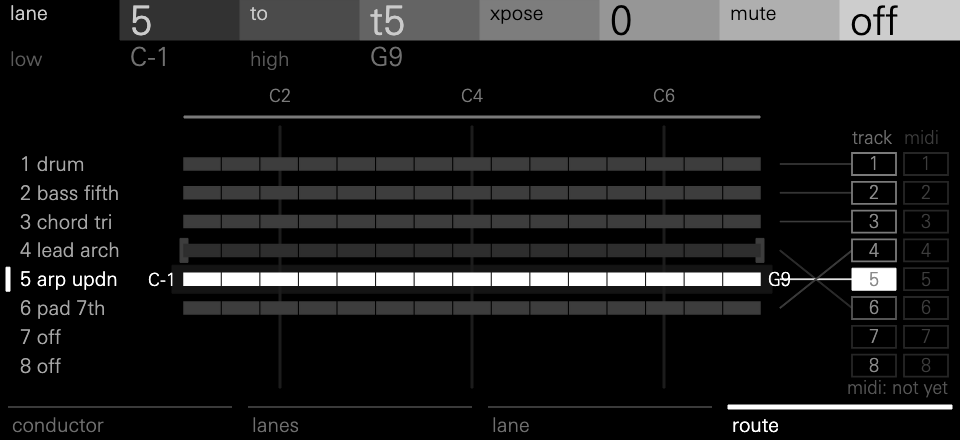
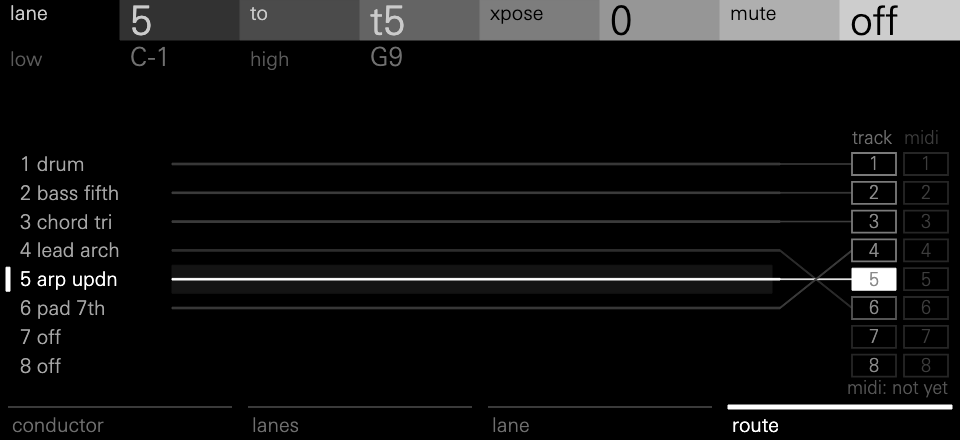
Conductor: M4 shows where each lane plays, not its range
Max: "for page 4 we don't need to show that wide sequencer view". M4 drops
the keyboard and range dashes; each lane runs straight across to its wire
and on to the track and midi columns, the selected one bright, a muted
one dark. Low, high and transpose stay in the header. The control no
longer sends M4 the lanes' ranges, and its test goes with them.

Changed region(s): [[0.1562, 0.3545, 0.8438, 0.65], [0.1875, 0.2068, 0.7812, 0.2955], [0.1875, 0.6795, 0.8125, 0.7386]]

diff --git a/display.cpp b/display.cpp
@@ -22,7 +22,7 @@ enum Node {
     kRowBand = 34,       // M2, M4: behind the selected lane
     kBarBand = 35,       // M1: behind the bar playing
     kStepBand = 36,      // M2, M3: behind the step playing
-    kGridLines = 37,     // 3: between bars or beats; M4's octave guides
+    kGridLines = 37,     // 3: between bars or beats
     kPlayhead = 40,      // M1
     kPlayMark = 41,      // M1: the playhead's head
     kUnderlines = 42,    // 4: M1, under each bar's chords
@@ -31,10 +31,10 @@ enum Node {
     kMeter = 54,         // 5: M1, how far the next phrase will change
     kGrooveMarks = 59,   // 16: M1 by beat, M2 by step
     kOffbeats = 75,      // 16: M1, the swung off-beats; M2, accents
-    kScaleLine = 91,     // M4: the keyboard's span
-    kToneLines = 92,     // 6: M3, the chord's notes
-    kCells = 98,         // 128: a lane's beat, step or note, or a stretch of its range
-    kNodes = 226,
+    kLeaders = 91,       // 8: M4, each lane straight across to its wire
+    kToneLines = 99,     // 6: M3, the chord's notes
+    kCells = 105,        // 128: a lane's beat, step or note
+    kNodes = 233,
 };
 const u32 kCellCount = kNodes - kCells;
 // Text slots: the header's sixteen, then the pages' own. Each slot has its
@@ -255,9 +255,8 @@ inline void bar_lines(Frame& frame) {
 
 // One cell from the pool, or none once it is spent.
 // M1 and M2 give each lane's beat or step its own cell (8 x 16, the whole
-// pool), so a bar or beat changes only the cells whose marks change. M3 and
-// M4 take cells in order up to `end`; M4 keeps the last ones for the selected
-// lane, so turning its range moves only its own.
+// pool), so a bar or beat changes only the cells whose marks change. M3
+// takes cells in order up to `end`.
 struct Cells {
     u32 next, end;
     void put(Frame& frame, i32 x, i32 y, u32 shade, i32 scale) {
@@ -482,62 +481,15 @@ inline void draw_roll(const Input& input, const View& v, Frame& frame) {
     if (!cells.next) centred(frame, kMidText + 2, kLeft + kSpan / 2, kRollMiddle + px(4), "rests this bar", 11);
 }
 
-// M4: each lane's range on a keyboard from C1 to C7, in dashes, moved by its
-// transpose (faint marks show where it was), and wired to its track. The
-// MIDI column says it can't play yet.
+// M4: where each lane plays. Each lane runs straight across to its wire,
+// which takes it to its track; the header holds the selected lane's range and
+// transpose. The MIDI column says it can't play yet.
 inline void draw_route(const View& v, Frame& frame) {
-    const u32* w = v.w;
-    const i32 lowest = 24, highest = 96, x0 = px(92), width = px(288);
-    struct Key {
-        static i32 x(i32 note, i32 x0, i32 width) { return x0 + width / 72 * (note - 24); }
-    };
     right_text(frame, kDimText, px(474), px(197), "midi: not yet", 9);
-    show(frame, kScaleLine, x0, px(58), kMid);
-    static const char* const kOctaves[3] = {"C2", "C4", "C6"};
-    for (u32 i = 0; i < 3; ++i) {
-        const i32 x = Key::x(36 + 24 * static_cast<i32>(i), x0, width);
-        show(frame, kGridLines + i, x, px(63), kGrid);
-        centred(frame, kMidText + i, x, px(51), kOctaves[i], 11, unit * 9 / 11);
-    }
-    // A range takes at most 15 dashes and two marks.
-    const u32 kept = 17;
-    Cells others = {0, kCellCount - kept}, own = {kCellCount - kept, kCellCount};
     for (u32 l = 0; l < kLanes; ++l) {
         if (v.role(l) == kOff) continue;
-        Cells& cells = l == v.selected ? own : others;
-        const u32 r = lane_range(w, l);
-        const i32 low = static_cast<i32>(field(r, 0, 7)), high = static_cast<i32>(field(r, 7, 7));
-        const i32 xpose = static_cast<i32>(field(r, 14, 6)) - 24;
-        const bool sel = l == v.selected, muted = v.muted(l);
-        if (xpose) {
-            // Where the range was before its transpose: a faint upright mark at each end.
-            const i32 marks[2] = {clampi(low, lowest, highest), clampi(high, lowest, highest)};
-            for (u32 m = 0; m < 2; ++m) {
-                const u32 node = kCells + cells.next;
-                cells.put(frame, Key::x(marks[m], x0, width), row_y(l), kDim, unit);
-                opxy::draw::turn(frame, node, Turn{0, unit});
-            }
-        }
-        {
-            const i32 lo = clampi(low + xpose, lowest, highest), hi = clampi(high + xpose, lowest, highest);
-            if (hi <= lo) continue;
-            const i32 a = Key::x(lo, x0, width), b = Key::x(hi, x0, width), dash = px(18);
-            const u32 shade = sel ? kWhite : muted ? kMuted : kDim;
-            // Dashes 18 px long, evenly spread so the last ends at the top.
-            const i32 count = b - a <= dash ? 1 : (b - a - dash + px(20) - 1) / px(20) + 1;
-            for (i32 k = 0; k < count; ++k) {
-                const i32 x = count == 1 ? (a + b) / 2 : a + dash / 2 + (b - a - dash) / (count - 1) * k;
-                cells.put(frame, x, row_y(l), shade, 1536);
-            }
-            if (sel) {
-                // The range's own notes, though the keyboard stops at C1 and C7.
-                char note[8];
-                note_name(note, clampi(low + xpose, 0, 127));
-                right_text(frame, kBigText, a - px(4), row_y(l) + px(35) / 10, note, 15, unit * 3 / 5);
-                note_name(note, clampi(high + xpose, 0, 127));
-                text(frame, kChordText, b + px(4), row_y(l) + px(35) / 10, unit * 3 / 4, note);
-            }
-        }
+        const u32 shade = v.muted(l) ? kMuted : l == v.selected ? kWhite : kDim;
+        show(frame, kLeaders + l, kLeft, row_y(l), shade);
     }
 }
 

diff --git a/words.h b/words.h
@@ -34,8 +34,6 @@ enum LanesWord { kStepCells = kPayload, kStepGroove = kPayload + 8 };
 // M3: the selected lane's bar on twelve rows, or eight drum voices; then the harmony.
 enum RollWord { kRange = kPayload, kRoll, kRollChords = kPayload + 7 };  // kRange: lowest row's pitch 7 | semitones a row 4 | drum 1
 const u32 kRollRows = 12, kDrumRows = 8;
-// M4: each lane's range, 20 bits: low 7 | high 7 | transpose + 24, 6.
-const u32 kRangeBits = 20;
 
 struct Words { u32 v[kWords]; };
 struct Position { u32 tick; bool playing; };
@@ -168,23 +166,6 @@ __attribute__((noinline)) inline void roll_words(const Bar& bar, u32 lane, bool 
     }
 }
 
-__attribute__((noinline)) inline void route_words(const Song& song, Words& w) {
-    for (u32 l = 0; l < kLanes; ++l) {
-        const Lane& lane = song.lanes[l];
-        const u32 v = static_cast<u32>(lane.route[kLow] & 127) | static_cast<u32>(lane.route[kHigh] & 127) << 7 |
-                      static_cast<u32>(lane.route[kXpose] + 24) << 14;
-        const u32 index = kRangeBits * l, shift = index % 32;
-        w.v[kPayload + index / 32] |= v << shift;
-        if (shift + kRangeBits > 32) w.v[kPayload + index / 32 + 1] |= v >> (32 - shift);
-    }
-}
-inline u32 lane_range(const u32* w, u32 lane) {
-    const u32 index = kRangeBits * lane, shift = index % 32;
-    u32 v = w[kPayload + index / 32] >> shift;
-    if (shift + kRangeBits > 32) v |= w[kPayload + index / 32 + 1] << (32 - shift);
-    return v & ((1u << kRangeBits) - 1u);
-}
-
 __attribute__((noinline)) inline void words(const Song& song, u32 page, u32 lane_index, const Bar& bar, i32 bar_index, Position at,
                   bool shift, const u32* flash_us, const Globals& globals, const PhraseCells& phrase, Words& w) {
     for (u32 i = 0; i < kWords; ++i) w.v[i] = 0;
@@ -228,7 +209,7 @@ __attribute__((noinline)) inline void words(const Song& song, u32 page, u32 lane
         roll_words(bar, lane_index, role == kDrum, w);
         w.v[kRollChords] = chords_word(song, globals, bar_index, step);
         break;
-    default: route_words(song, w);
+    default: break;  // M4 draws from the lanes' roles, targets and mutes alone
     }
 }
 }

diff --git a/tests/conductor.cpp b/tests/conductor.cpp
@@ -185,7 +185,7 @@ static bool sounds(const Bar& bar, u32 lane, u32 first, u32 last) {
 
 // M1's words mark every beat of the phrase that sounds, and only those; M2's
 // every step; M3's put the selected lane's notes on rows inside the range it
-// labels; M4's carry each lane's range and transpose.
+// labels.
 static void playing_pages() {
     const u32 at = 2 * kBarTicks;
     input.page_key = kConduct + 1;
@@ -247,21 +247,6 @@ static void playing_pages() {
     check(bands[0] == 1 && margins[0] >= -1 && margins[0] <= 1, "M3 centres a lane inside an octave on semitone rows");
     check(bands[1] > 1, "M3 widens its rows for a lane wider than twelve semitones");
 
-    input.page_key = kRoute + 1;
-    state.song.lanes[6].route[kLow] = 40;
-    state.song.lanes[6].route[kHigh] = 91;
-    state.song.lanes[6].route[kXpose] = -24;
-    state.song.lanes[7].route[kXpose] = 24;
-    tick(at + 3, true);
-    bool ranges = true;
-    for (u32 l = 0; l < kLanes; ++l) {
-        const u32 r = lane_range(shown(), l);
-        const Lane& lane = state.song.lanes[l];
-        ranges = ranges && static_cast<i32>(field(r, 0, 7)) == lane.route[kLow] &&
-                 static_cast<i32>(field(r, 7, 7)) == lane.route[kHigh] &&
-                 static_cast<i32>(field(r, 14, 6)) - 24 == lane.route[kXpose];
-    }
-    check(ranges, "M4 carries every lane's range and transpose");
     tick(at + 4, false);
 }
 

diff --git a/tools/artwork.py b/tools/artwork.py
@@ -51,11 +51,11 @@ NODES = [
     (5, ("rect", 10, 2)),           # meter
     (16, ("centred", 5, 5)),        # groove marks
     (16, ("centred", 1.4, 3)),      # off-beats
-    (1, ("rect", 288, 1)),          # keyboard span
+    (8, ("path", "M0,-0.4 L304,-0.4 L304,0.4 L0,0.4 Z")),  # M4: each lane straight across to its wire
     (6, ("centred_y", 300, 1)),     # tone lines
     (128, ("centred", 12, 4)),      # cells
 ]
-NODE_COUNT = 226
+NODE_COUNT = 233
 
 # Sixteen paints as display.cpp's Shade enum: (fill, stroke, stroke width).
 SOLID = ["#000000", "#101010", "#141414", "#1C1C1C", "#262626", "#2E2E2E", "#3D3D3D", "#555555",

diff --git a/display.h b/display.h
@@ -3,7 +3,7 @@
 
 namespace conductor {
 // Matches resources.display in definition.json: paths, points, nodes, texts, palette.
-using Frame = opxy::draw::Frame<0, 0, 226, 32, 16>;
+using Frame = opxy::draw::Frame<0, 0, 233, 32, 16>;
 struct DisplayState {
     opxy::draw::PageHeader header;
     opxy::u16 glow[8];  // each lane's light, Q10: full when it plays, then fading

diff --git a/README.md b/README.md
@@ -37,7 +37,7 @@ column stays dim until the SDK can send notes over MIDI (see Limits).
 | M1 conductor | key, scale, prog, dens / cmplx, hrate, swing, evolve | The phrase: its chords, the groove, and every lane's beats, a mark a beat sized by its notes; the phrase's letter, and how much the next will change |
 | M2 lanes | lane, role, dens, oct / vel, vary, lock, gate | The bar playing, step by step, for every lane; drums at the height of their lowest voice |
 | M3 lane | the selected lane's role controls: a bass's style, an arp's mode, a chord's voicing… | The selected lane alone: its voices down the left (kick to low tom) or its notes (named in the key), its bar across, over lines at the chord's notes, and one wire to its track |
-| M4 route | lane, track, xpose, mute / low, high | Each lane's range on a keyboard from C1 to C7, moved by its transpose, wired to its track |
+| M4 route | lane, track, xpose, mute / low, high | Where each lane plays: every lane straight across to its wire and on to its track, the selected one bright; its range and transpose in the header |
 
 M1's controls are saved, sequenced and lockable like any track's. Shift +
 encoders 1-4 reroll, freeze, fill and vary: every lane on M1, the selected
